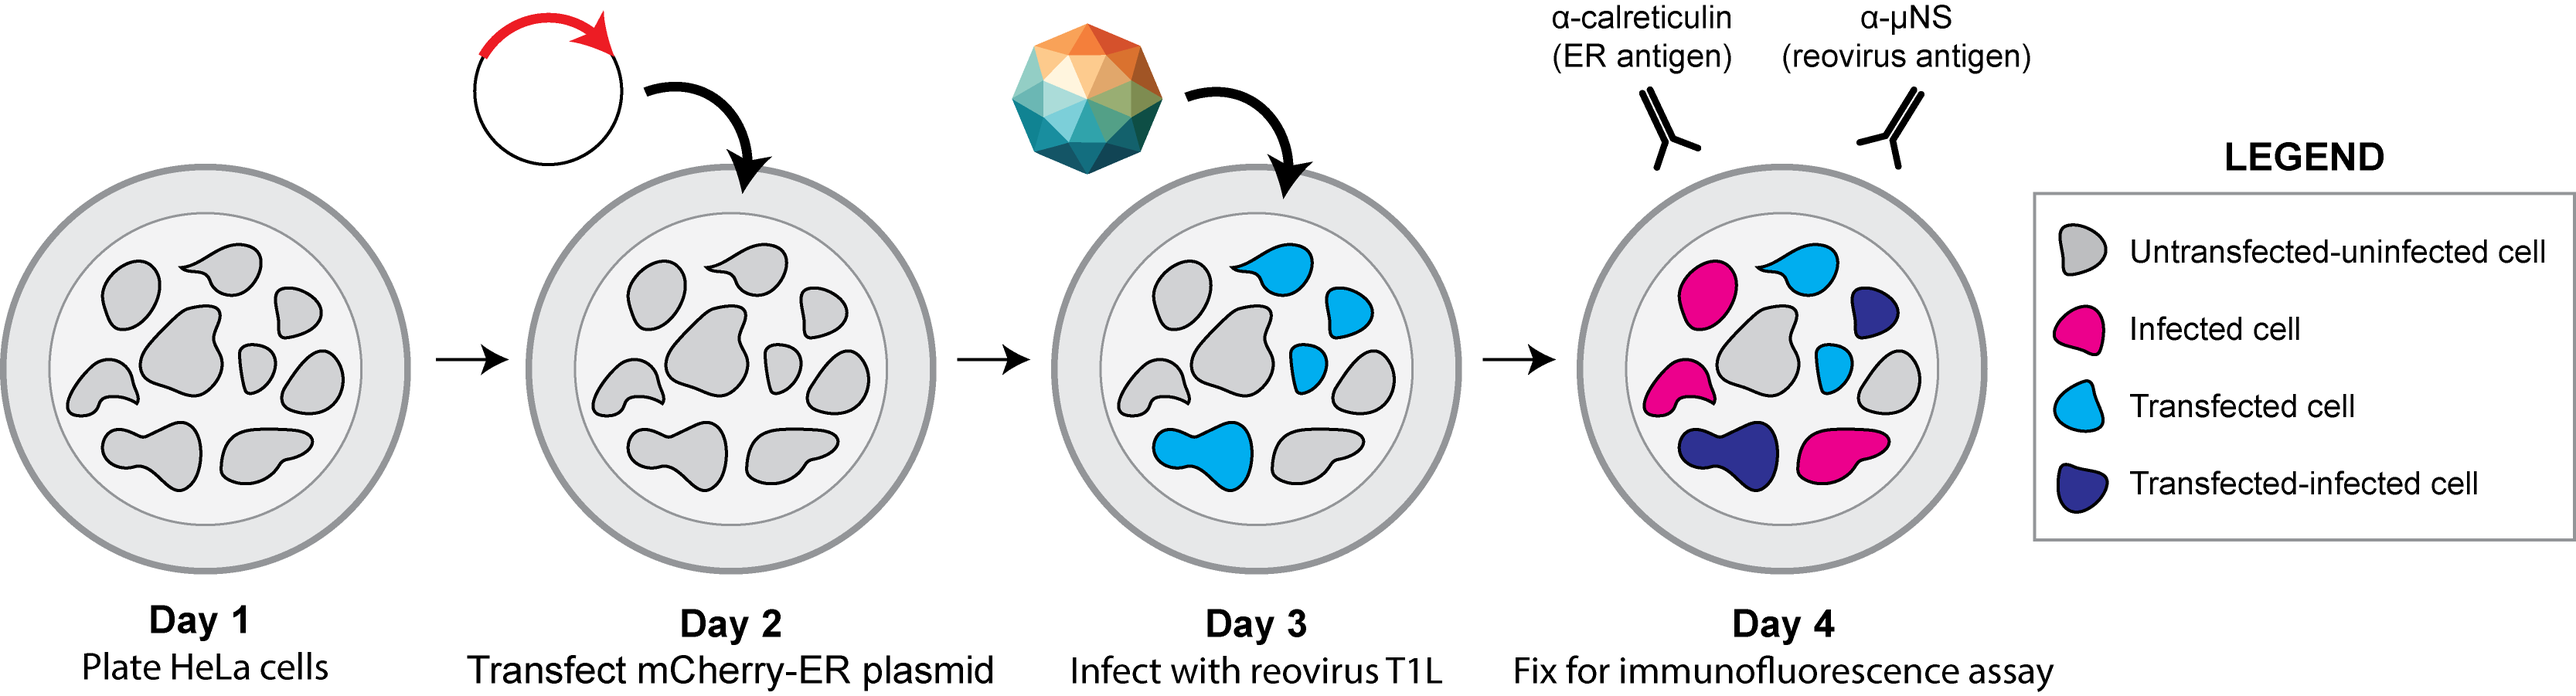
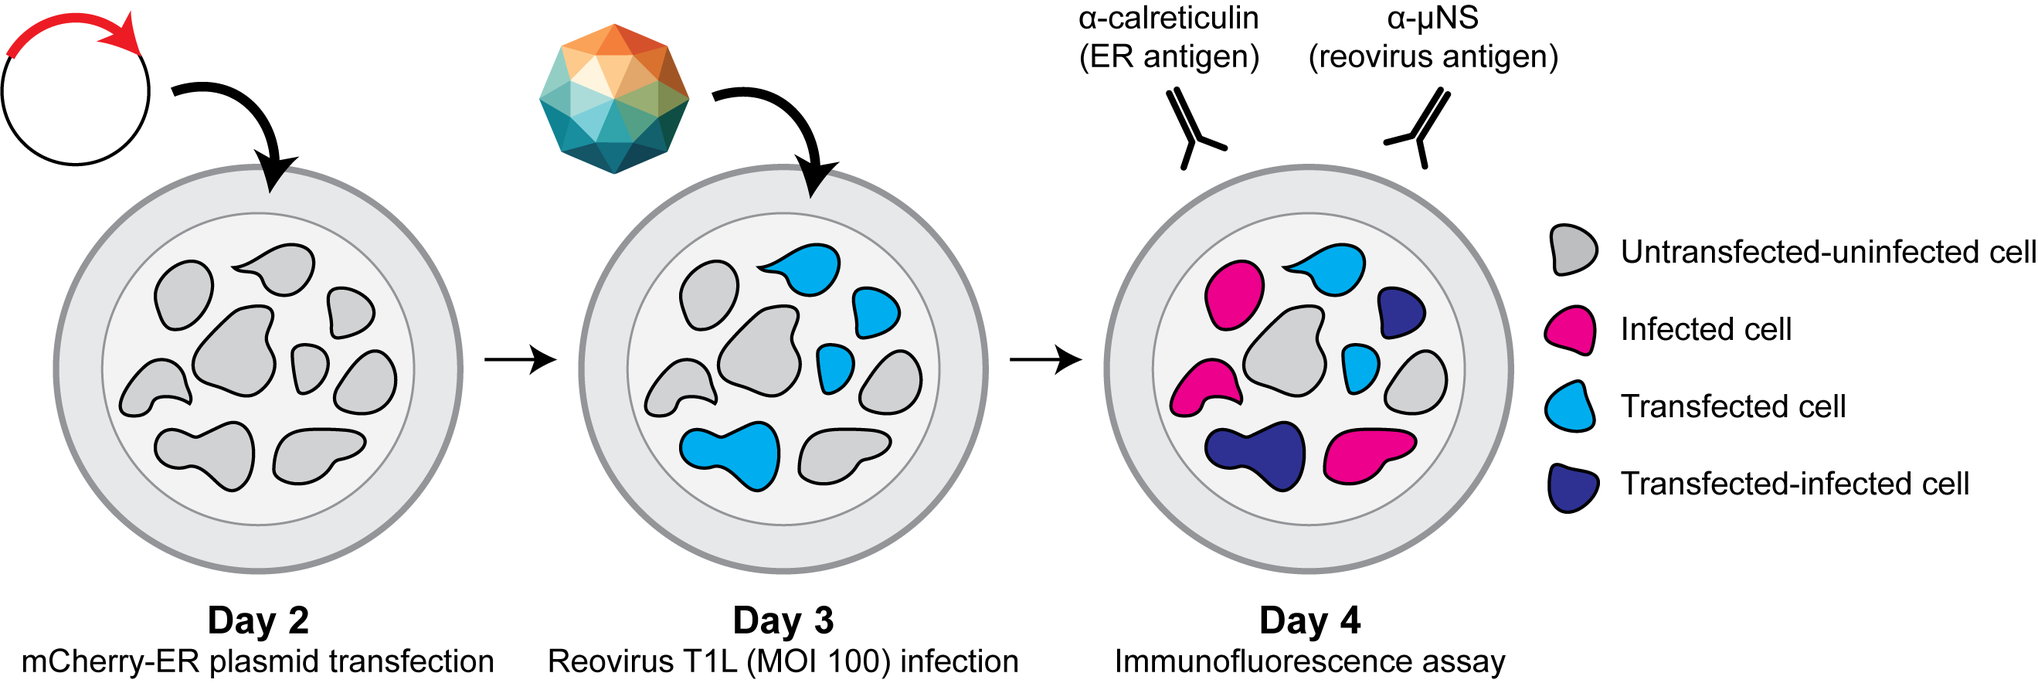
update graphical abstract

diff --git a/08_results.md b/08_results.md
@@ -27,6 +27,9 @@ Chicken polyclonal μNS antiserum was used to label reovirus viral factories.
 Replicate immunofluorescence assay of transfected-infected HeLa cells. The panorama consists of 225 fields (15x15 grid). Transfected cells express mCherry, infected cells are detected with μNS antibodies, and the ER is also shown with calreticulin antibodies.
 ::::
 
+This sample was chosen because the 
+
+
 Controls and additional samples from this experiment are found in [the supplemental section](#three_page).
 There are also two repetitions repetitions of this sample; [Supplemental Figure 12.1](#sfig12a) and [Supplemental Figure 13.1](#sfig13a)).
 
